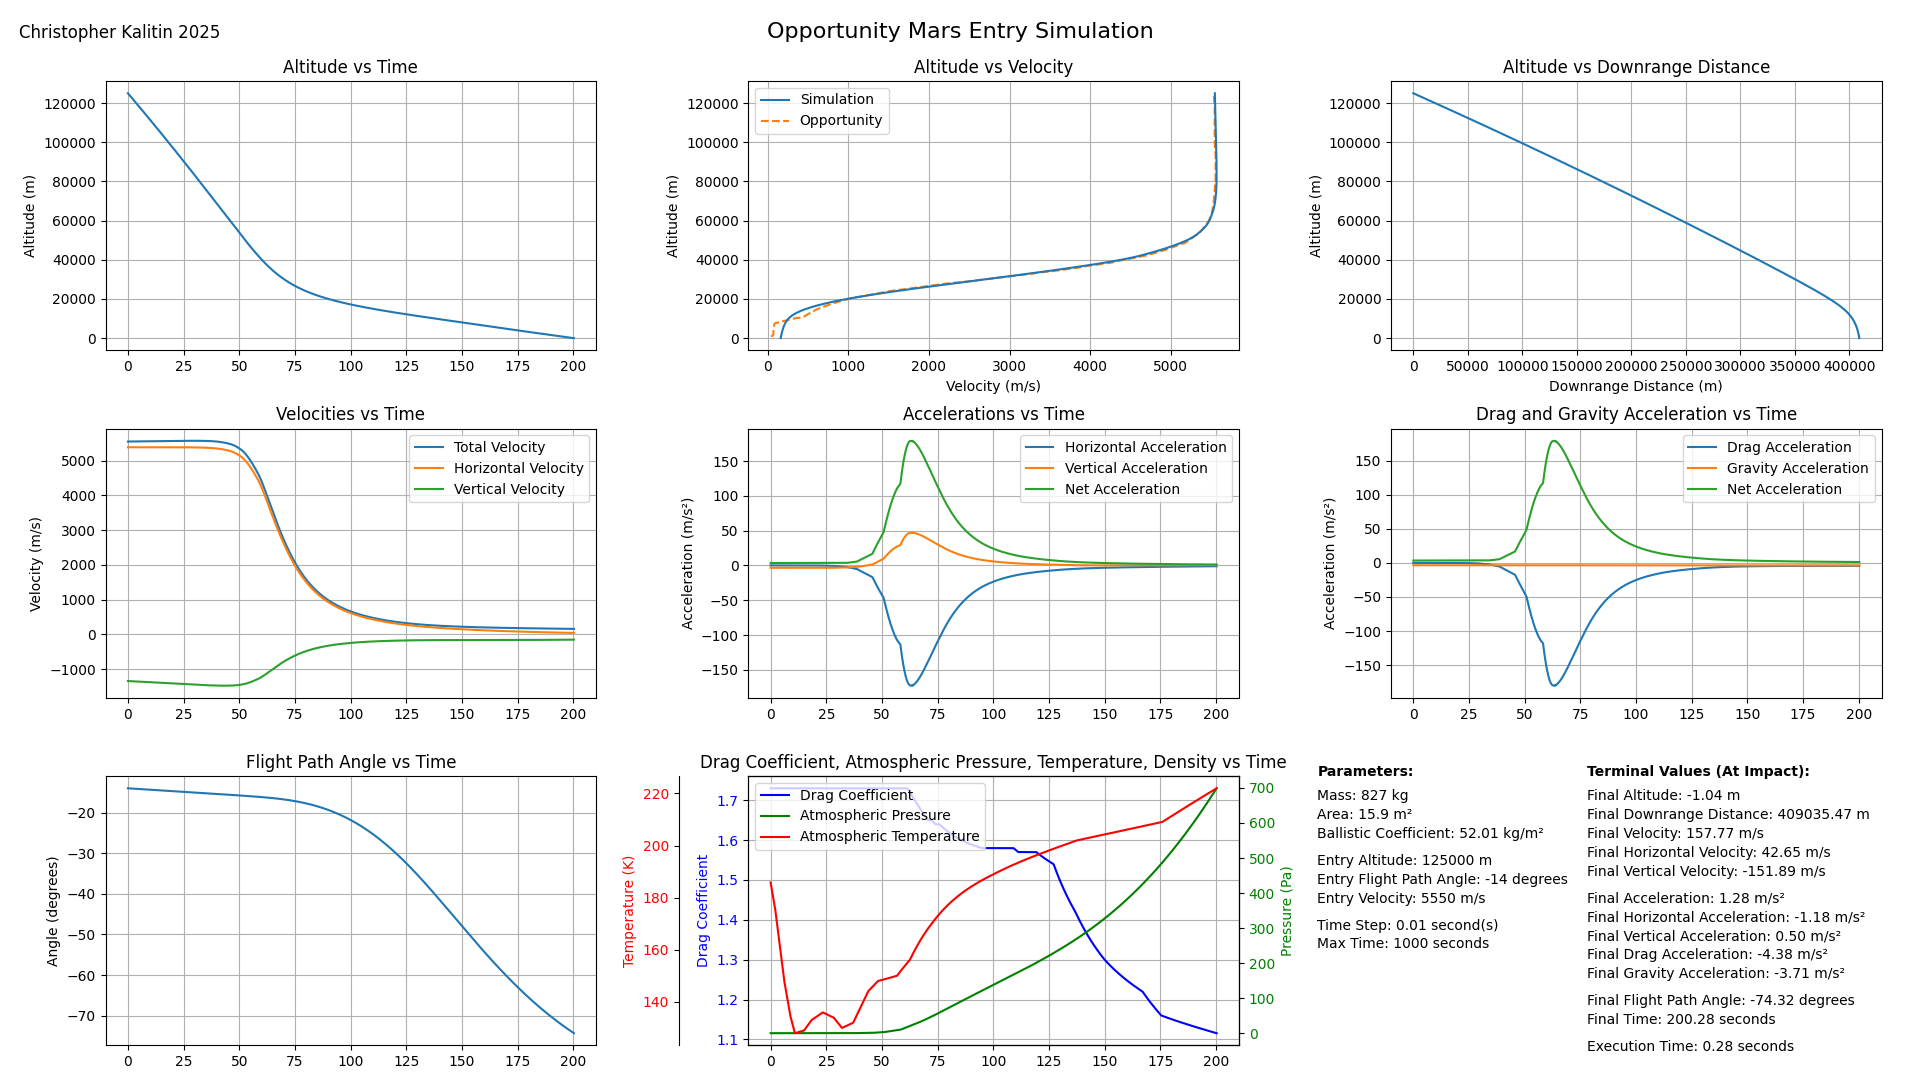
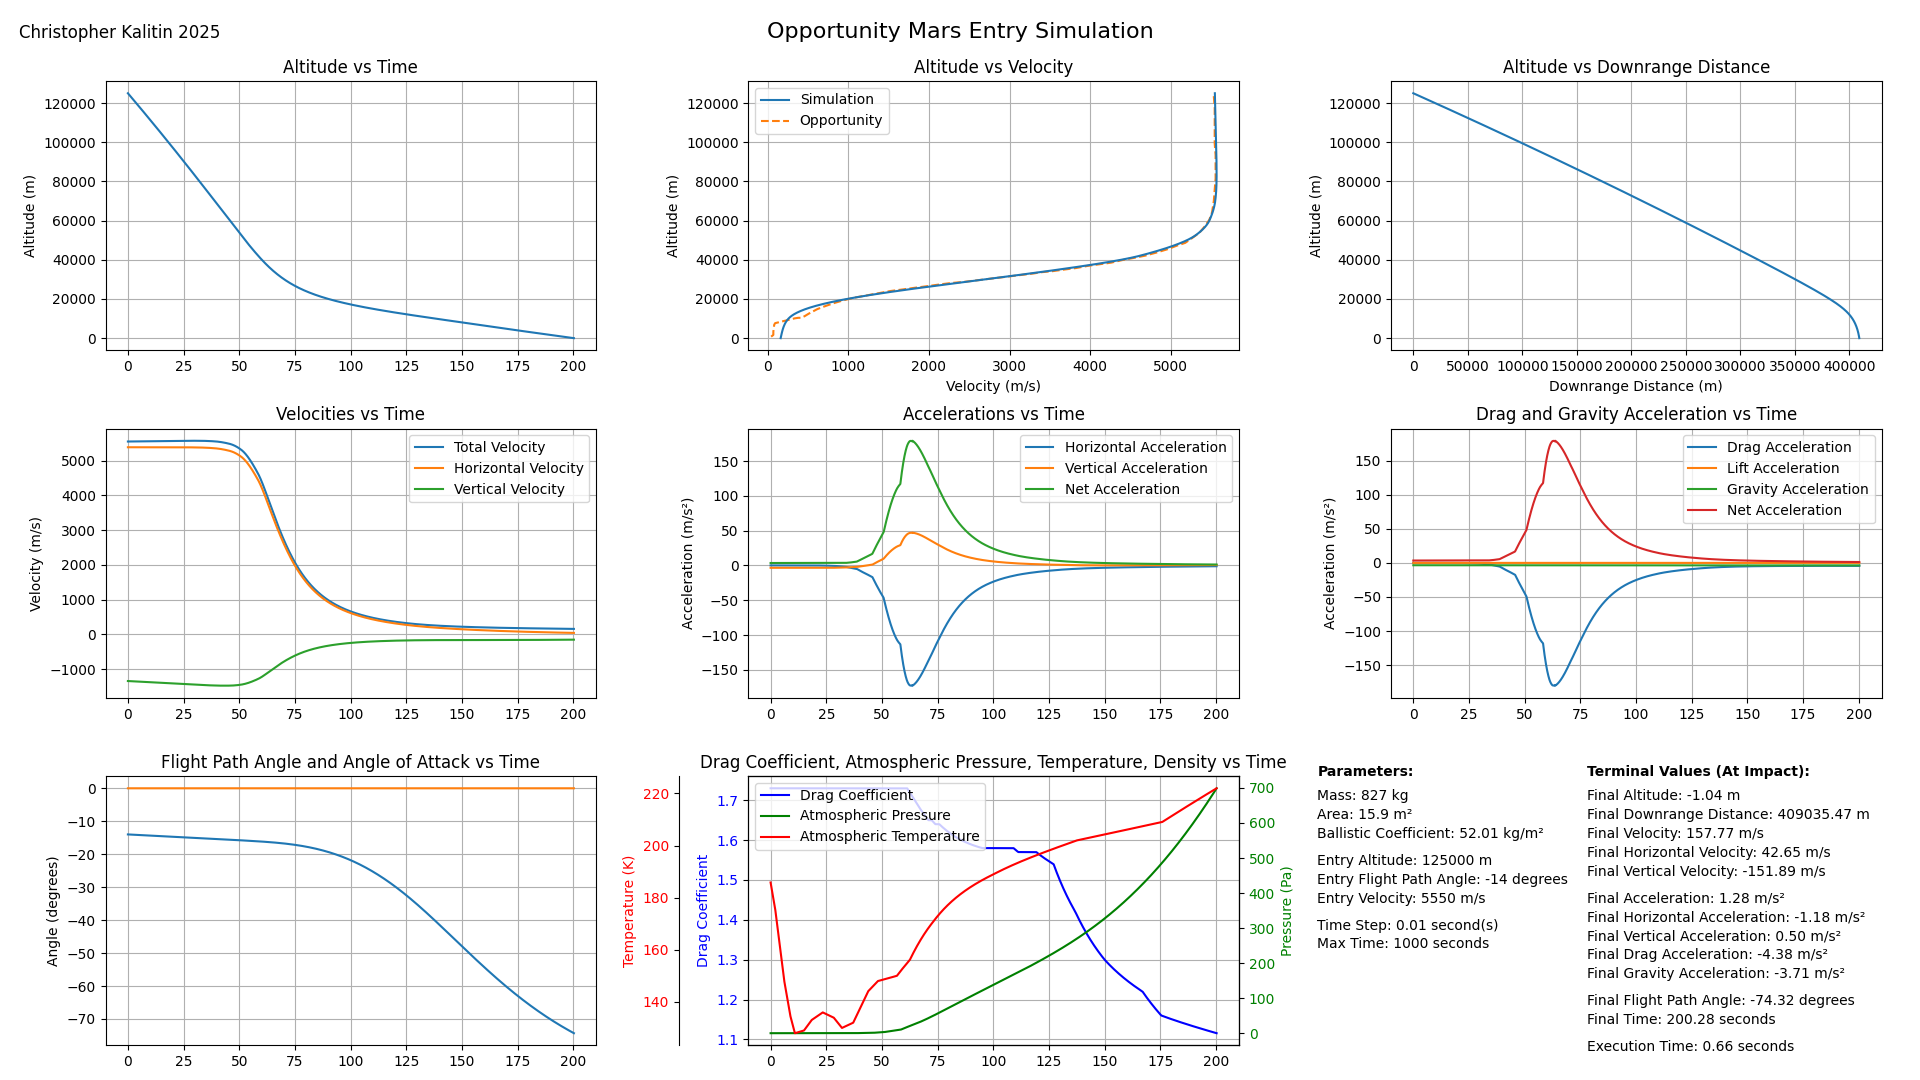
AoA & Lift! And image point select

diff --git a/Simulation/sim.py b/Simulation/sim.py
@@ -4,23 +4,12 @@ import matplotlib.pyplot as plt
 import numpy as np
 import time
 
-def simulate(time_step=None, time_max=None, mass=None, area=None, entry_altitude=None, entry_flight_path_angle=None, entry_velocity=None, verbose=False):
+def simulate(time_step=None, time_max=None, mass=None, area=None, aoa=None, entry_altitude=None, entry_flight_path_angle=None, entry_velocity=None, verbose=False):
     start_time = time.time()
-    
-    if time_step is None:
-        time_step = 1 # seconds
-    if time_max is None:
-        time_max = 5000 # seconds
-    if mass is None:
-        mass = 1000 # kg
-    if area is None:
-        area = 50 # m^2
-    if entry_altitude is None:
-        entry_altitude = 125000
-    if entry_flight_path_angle is None:
-        entry_flight_path_angle = -15 # degrees
-    if entry_velocity is None:
-        entry_velocity = 6000 # m/s
+
+    if type(aoa) != list:
+        aoa = [[entry_altitude, aoa], [0, aoa]]
+    aoa_list = utils.get_numpy_aoa_list(aoa)
 
     ballistic_coefficient = mass / area
 
@@ -37,6 +26,7 @@ def simulate(time_step=None, time_max=None, mass=None, area=None, entry_altitude
     altitudes = []
     velocities = []
     flight_path_angles = []
+    angles_of_attack = []
     v_xs = []
     v_ys = []
     a_xs = []
@@ -44,6 +34,7 @@ def simulate(time_step=None, time_max=None, mass=None, area=None, entry_altitude
     downrange_dists = []
     net_accs = []
     drag_accs = []
+    lift_accs = []
     grav_accs = []
     drag_coeffs = []
     atm_pressures = []
@@ -68,10 +59,16 @@ def simulate(time_step=None, time_max=None, mass=None, area=None, entry_altitude
         drag_coeff = utils.get_interpolated_drag_coefficient(velocity)
         drag_acc = utils.get_drag_acc(mass, velocity, area, drag_coeff, atm_density)
         
+        aoa = utils.get_interpolated_aoa(aoa_list, altitude)
+        angles_of_attack.append(aoa)
+        
+        lift_to_drag_ratio = utils.get_interpolated_lift_to_drag_ratio(aoa)
+        lift_acc = utils.get_lift_acc(drag_acc, lift_to_drag_ratio)
+        
         grav_acc = utils.get_gravity_acc(altitude)
         
-        a_x = drag_acc * math.cos(math.radians(flight_path_angle))
-        a_y = drag_acc * math.sin(math.radians(flight_path_angle)) + grav_acc
+        a_x = drag_acc * math.cos(math.radians(flight_path_angle)) + lift_acc * math.cos(math.radians(flight_path_angle+90))
+        a_y = drag_acc * math.sin(math.radians(flight_path_angle)) + lift_acc * math.sin(math.radians(flight_path_angle+90)) + grav_acc
         
         v_x += a_x * time_step
         v_y += a_y * time_step
@@ -96,6 +93,7 @@ def simulate(time_step=None, time_max=None, mass=None, area=None, entry_altitude
         a_ys.append(a_y)
         net_accs.append(net_acc)
         drag_accs.append(drag_acc)
+        lift_accs.append(lift_acc)
         grav_accs.append(grav_acc)
         drag_coeffs.append(drag_coeff)
         atm_pressures.append(atm_pressure)
@@ -114,6 +112,7 @@ def simulate(time_step=None, time_max=None, mass=None, area=None, entry_altitude
         'altitudes': altitudes,
         'velocities': velocities,
         'flight_path_angles': flight_path_angles,
+        'angles_of_attack': angles_of_attack,
         'v_xs': v_xs,
         'v_ys': v_ys,
         'a_xs': a_xs,
@@ -121,6 +120,7 @@ def simulate(time_step=None, time_max=None, mass=None, area=None, entry_altitude
         'downrange_dists': downrange_dists,
         'net_accs': net_accs,
         'drag_accs': drag_accs,
+        'lift_accs': lift_accs,
         'grav_accs': grav_accs,
         'drag_coeffs': drag_coeffs,
         'atm_pressures': atm_pressures,
@@ -146,6 +146,7 @@ def plot(data, title="Mars Entry Simulation", filename='mars_entry_simulation.pn
     altitudes = data['altitudes']
     velocities = data['velocities']
     flight_path_angles = data['flight_path_angles']
+    angles_of_attack = data['angles_of_attack']
     v_xs = data['v_xs']
     v_ys = data['v_ys']
     a_xs = data['a_xs']
@@ -153,6 +154,7 @@ def plot(data, title="Mars Entry Simulation", filename='mars_entry_simulation.pn
     downrange_dists = data['downrange_dists']
     net_accs = data['net_accs']
     drag_accs = data['drag_accs']
+    lift_accs = data['lift_accs']
     grav_accs = data['grav_accs']
     drag_coeffs = data['drag_coeffs']
     atm_pressures = data['atm_pressures']
@@ -216,9 +218,10 @@ def plot(data, title="Mars Entry Simulation", filename='mars_entry_simulation.pn
     plt.legend()
     plt.grid(True)
 
-    # Plot 2,3: drag_acc, grav_acc, net acc vs Time
+    # Plot 2,3: drag_acc, lift_acc, grav_acc, net acc vs Time
     plt.subplot(3, 3, 6)
     plt.plot(times, drag_accs, label='Drag Acceleration')
+    plt.plot(times, lift_accs, label='Lift Acceleration')
     plt.plot(times, grav_accs, label='Gravity Acceleration')
     plt.plot(times, net_accs, label='Net Acceleration')
     plt.title('Drag and Gravity Acceleration vs Time')
@@ -226,11 +229,13 @@ def plot(data, title="Mars Entry Simulation", filename='mars_entry_simulation.pn
     plt.legend()
     plt.grid(True)
 
-    # Plot 3,1: Flight Path Angle vs Time
+    # Plot 3,1: Flight Path Angle and Angle of Attack vs Time
     plt.subplot(3, 3, 7)
-    plt.plot(times, flight_path_angles)
-    plt.title('Flight Path Angle vs Time')
+    plt.plot(times, flight_path_angles, label='Flight Path Angle')
+    plt.plot(times, angles_of_attack, label='Angle of Attack')
+    plt.title('Flight Path Angle and Angle of Attack vs Time')
     plt.ylabel('Angle (degrees)')
+    plt.legend()
     plt.grid(True)
 
     # Plot 3,2: Drag Coefficient and Atmospheric Density vs Time

diff --git a/Extras/image_point_select.py b/Extras/image_point_select.py
@@ -1,0 +1,89 @@
+import sys
+import pygame
+
+def main():
+    image_file = 'extract_image.png'
+
+    # Initialize Pygame and minimal display
+    pygame.init()
+    pygame.display.set_mode((1, 1))
+
+    try:
+        image = pygame.image.load(image_file).convert_alpha()
+    except pygame.error as e:
+        print(f"Failed to load image '{image_file}': {e}")
+        return
+
+    orig_width, orig_height = image.get_size()
+    screen = pygame.display.set_mode((orig_width, orig_height), pygame.RESIZABLE)
+    pygame.display.set_caption("Left-click to add points, right-click to remove. Mouse wheel to zoom. ESC/Q to quit.")
+
+    zoom = 1.0
+    offset_x, offset_y = 0, 0
+    points = []
+    clock = pygame.time.Clock()
+    running = True
+
+    last_zoom = zoom
+    scaled_img = image
+
+    while running:
+        for event in pygame.event.get():
+            if event.type == pygame.QUIT:
+                running = False
+            elif event.type == pygame.KEYDOWN and event.key in (pygame.K_ESCAPE, pygame.K_q):
+                running = False
+            elif event.type == pygame.MOUSEBUTTONDOWN and event.button in (1, 3):
+                sx, sy = event.pos
+                ix = (sx - offset_x) / zoom
+                iy = (sy - offset_y) / zoom
+                px, py = int(ix), int(iy)
+                if 0 <= px < orig_width and 0 <= py < orig_height:
+                    pt = (px, py)
+                    if event.button == 1:
+                        points.append(pt)
+                    else:
+                        if points:
+                            nearest = min(points, key=lambda p: (p[0]-px)**2 + (p[1]-py)**2)
+                            points.remove(nearest)
+            elif event.type == pygame.MOUSEWHEEL:
+                mx, my = pygame.mouse.get_pos()
+                img_x = (mx - offset_x) / zoom
+                img_y = (my - offset_y) / zoom
+                # Moderate zoom speed, clamp zoom for performance
+                factor = 1.2 if event.y > 0 else 1 / 1.2
+                zoom = max(0.1, min(zoom * factor, 18))
+                offset_x = mx - img_x * zoom
+                offset_y = my - img_y * zoom
+
+        # Rescale only on zoom change
+        if zoom != last_zoom:
+            sw = max(1, int(orig_width * zoom))
+            sh = max(1, int(orig_height * zoom))
+            scaled_img = pygame.transform.scale(image, (sw, sh))
+            last_zoom = zoom
+
+        screen.fill((30, 30, 30))
+        screen.blit(scaled_img, (offset_x, offset_y))
+
+        # Draw X markers
+        for p in points:
+            cx = (p[0] + 0.5) * zoom + offset_x
+            cy = (p[1] + 0.5) * zoom + offset_y
+            sx = int(cx)
+            sy = int(cy)
+            s = 5
+            pygame.draw.line(screen, (255,0,0), (sx-s, sy-s), (sx+s, sy+s), 2)
+            pygame.draw.line(screen, (255,0,0), (sx-s, sy+s), (sx+s, sy-s), 2)
+
+        pygame.display.flip()
+        clock.tick(60)
+
+    pygame.quit()
+    print(f"Image dimensions: {orig_width} x {orig_height}")
+    print("Points (x, y):")
+    for p in points:
+        print(p)
+
+if __name__ == '__main__':
+    main()

diff --git a/Simulation/utils.py b/Simulation/utils.py
@@ -19,11 +19,11 @@ cd_vel_data = np.array([
 
 # Lift to drag ratio data, lift to drag ratio vs. AoA (degrees)
 ld_ratio_data = np.array([
-    0,0.035,0.065,0.095,0.175,0.265,0.265
+    -1.5,-0.265,-0.175,-0.095,-0.065,-0.035,0,0.035,0.065,0.095,0.175,0.265,1.5
 ])
 
 ld_vel_data = np.array([
-    0,2,4,6,11,16,90
+    -90,-16,-11,-6,-4,-2,0,2,4,6,11,16,90
 ])
 
 # Atmospheric pressure data, pressure vs. altitude (m)
@@ -68,16 +68,16 @@ def get_interpolated_lift_to_drag_ratio(aoa):
     
     return np.interp(aoa, ld_vel_data, ld_ratio_data)
 
-print(get_interpolated_lift_to_drag_ratio(2))
-print(get_interpolated_lift_to_drag_ratio(4))
-print(get_interpolated_lift_to_drag_ratio(6))
-print(get_interpolated_lift_to_drag_ratio(8))
-print(get_interpolated_lift_to_drag_ratio(10))
-print(get_interpolated_lift_to_drag_ratio(12))
-print(get_interpolated_lift_to_drag_ratio(14))
-print(get_interpolated_lift_to_drag_ratio(16))
-print(get_interpolated_lift_to_drag_ratio(18))
-print(get_interpolated_lift_to_drag_ratio(20))
+def get_numpy_aoa_list(aoa_list):
+    # aoa_list = [(alt, aoa), ...], alt = meters, aoa = degrees
+    out = np.array(aoa_list)
+    # reverse the order of both columns to be in descending order
+    out[:, 0] = out[:, 0][::-1]
+    out[:, 1] = out[:, 1][::-1]
+    return out
+
+def get_interpolated_aoa(numpy_aoa_list, alt):
+    return np.interp(alt, numpy_aoa_list[:,0], numpy_aoa_list[:,1])
 
 def get_atmospheric_pressure(alt):
     # alt = meters, atmospheric pressure = Pa
@@ -125,3 +125,8 @@ def get_drag_acc(mass, vel, area, drag_coeff, atm_density):
     # atm_density = kg/m^3, vel = m/s, area = m^2, drag_coeff = dimensionless
     return -1/mass * 0.5 * atm_density * drag_coeff * area * vel**2
 
+def get_lift_acc(drag_acc, lift_to_drag_ratio):
+    # drag_acc = m/s^2, lift_to_drag_ratio = dimensionless
+    if lift_to_drag_ratio == 0:
+        return 0
+    return -drag_acc * lift_to_drag_ratio

diff --git a/Simulation/backtest.py b/Simulation/backtest.py
@@ -71,22 +71,35 @@ viking = [
     "Viking"
 ]
 
+# Altitude vs. AoA, interpolated
+curiosity_aoa = [
+    (125000, 0),
+    (40000, 0),
+    (25000, 15),
+    (8000, 15),
+    (5000, -15),
+    (0, -15)
+]
+
 curiosity_data = sim.simulate(
     time_step=0.01,
     time_max=1000,
     mass=3300,
     area=15.9,
+    aoa=curiosity_aoa,
     entry_altitude=125000,
     entry_flight_path_angle=-14,
-    entry_velocity=5850,
+    entry_velocity=5700,
     verbose=False,
 )
 
+"""
 phoenix_data = sim.simulate(
     time_step=0.01,
     time_max=1000,
     mass=670,
     area=15.9,
+    aoa=0,
     entry_altitude=125000,
     entry_flight_path_angle=-15,
     entry_velocity=5875,
@@ -99,12 +112,14 @@ opportunity_data = sim.simulate(
     time_max=1000,
     mass=827,
     area=15.9,
+    aoa=0,
     entry_altitude=125000,
     entry_flight_path_angle=-14,
     entry_velocity=5550,
     verbose=False,
 )
+"""
 
-sim.plot(phoenix_data, "Phoenix Mars Entry Simulation", filename="backtest/Phoenix.png", comparisons=[phoenix], show=False)
 sim.plot(curiosity_data, "Curiosity Mars Entry Simulation", filename="backtest/Curiosity.png", comparisons=[curiosity], show=False)
-sim.plot(opportunity_data, "Opportunity Mars Entry Simulation", filename="backtest/Opportunity.png", comparisons=[opportunity], show=False)
+#sim.plot(phoenix_data, "Phoenix Mars Entry Simulation", filename="backtest/Phoenix.png", comparisons=[phoenix], show=False)
+#sim.plot(opportunity_data, "Opportunity Mars Entry Simulation", filename="backtest/Opportunity.png", comparisons=[opportunity], show=False)

diff --git a/README.md b/README.md
@@ -8,5 +8,7 @@ Project Files: https://drive.google.com/drive/folders/1TZtnQIGfnQR2XwH2QPFnw9MOi
 Project Blog Post: Soon!  
 
 # Todo
-1. Add existing lander parameters to backtest.py
-2. Fit best atmosphere model / drag multiplier to ensure back tests match
+1. Get Tianwen-1 data
+2. Get Perseverance data
+3. Get raw Opportunity data
+4. Model Starship
